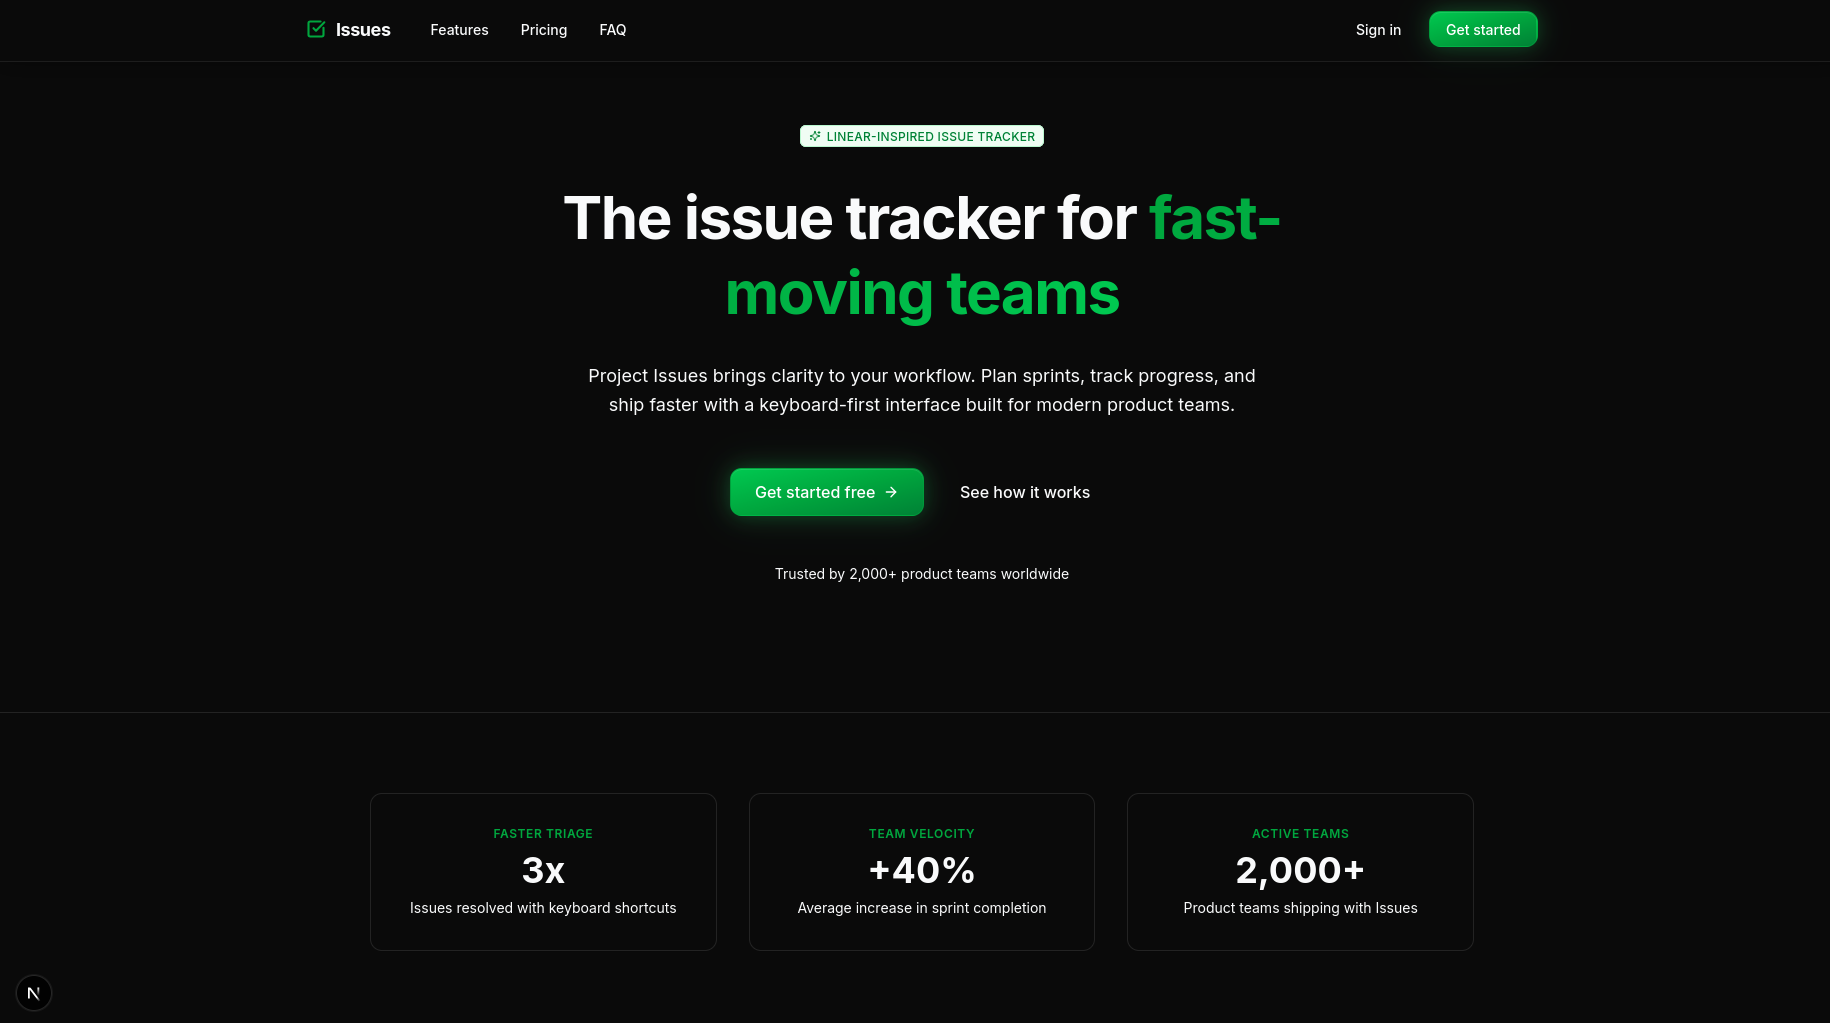
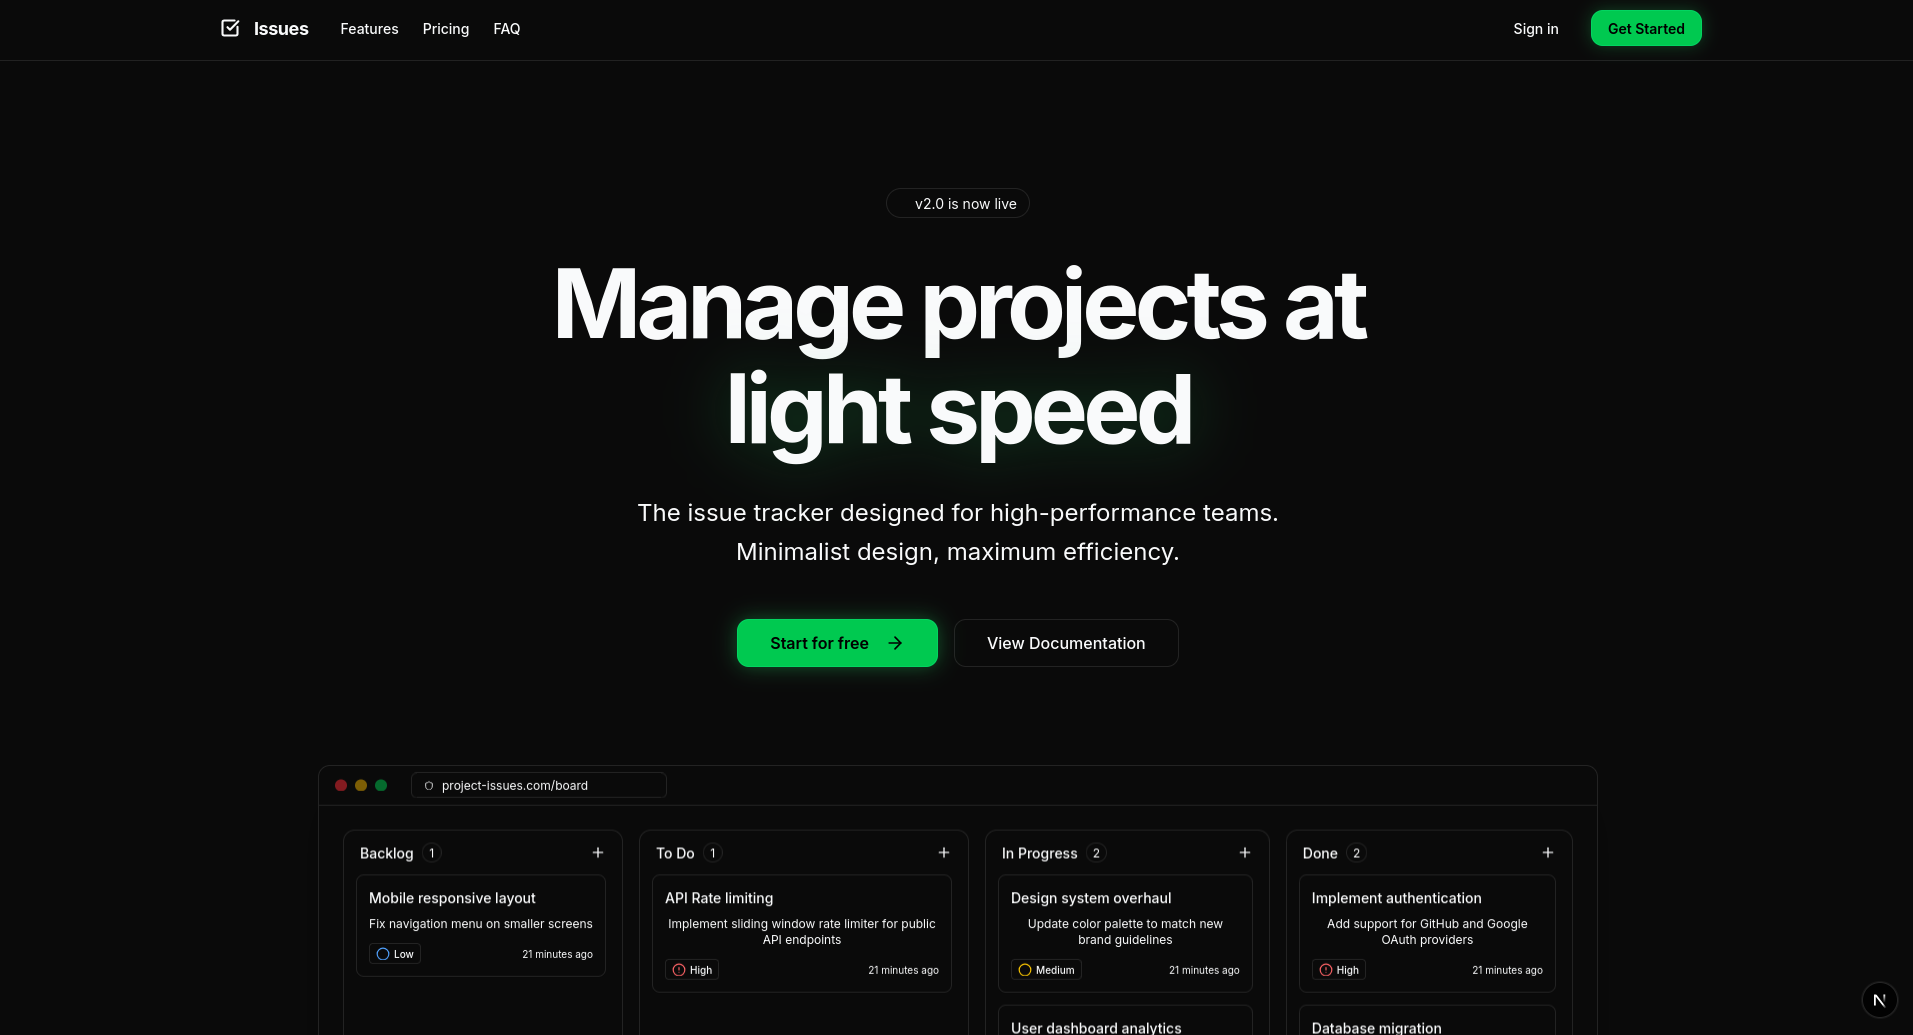
feat: update README and preview images, replacing outdated visuals with new dashboard and issues page screenshots

diff --git a/README.md b/README.md
@@ -6,15 +6,13 @@
 ---
 
 ![](/preview/home-dark.png)
----
-
-![](/preview/price-dark.png)
----
 
 ![](/preview/home-light.png)
----
 
-![](/preview/feat-light.png)
+![](/preview/dashboard.png)
+
+![](/preview/issues-page.png)
+
 
 
 ## Overview
